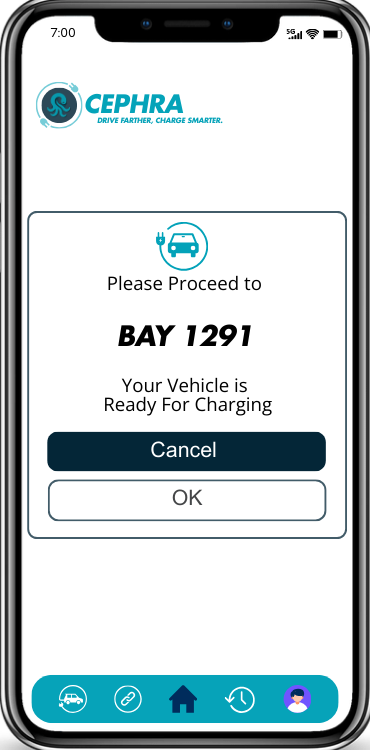
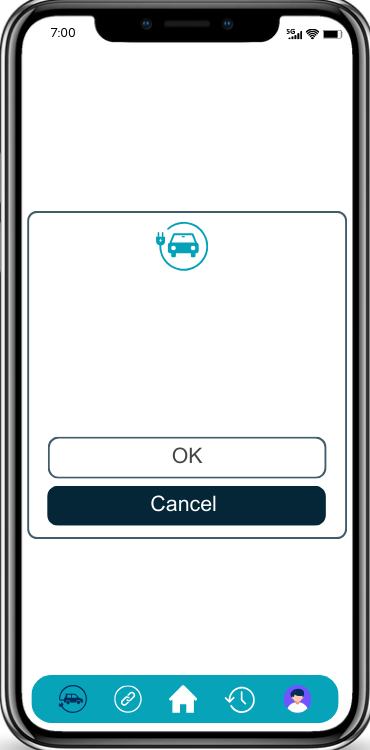
Refactor code structure for improved readability and maintainability

diff --git a/src/main/java/cephra/Phone/QueueTicket.java b/src/main/java/cephra/Phone/QueueTicket.java
@@ -16,6 +16,8 @@ public class QueueTicket extends javax.swing.JPanel {
         setSize(350, 750);
         setupLabelPosition(); // Set label position
         makeDraggable();
+
+       // jLabel1.setText("<html>You are next after<br>current charging session</html>");
     }
 
  
@@ -29,6 +31,11 @@ public class QueueTicket extends javax.swing.JPanel {
         historybutton = new javax.swing.JButton();
         homebutton2 = new javax.swing.JButton();
         profilebutton = new javax.swing.JButton();
+        percent = new javax.swing.JLabel();
+        fc = new javax.swing.JLabel();
+        fastCharge = new javax.swing.JLabel();
+        mins1 = new javax.swing.JLabel();
+        label1 = new javax.swing.JLabel();
         jLabel1 = new javax.swing.JLabel();
 
         setLayout(null);
@@ -115,7 +122,37 @@ public class QueueTicket extends javax.swing.JPanel {
         add(profilebutton);
         profilebutton.setBounds(260, 670, 50, 50);
 
-        jLabel1.setIcon(new javax.swing.ImageIcon(getClass().getResource("/cephra/Photos/FC - PANEL 1.png"))); // NOI18N
+        percent.setFont(new java.awt.Font("Segoe UI", 1, 18)); // NOI18N
+        percent.setHorizontalAlignment(javax.swing.SwingConstants.CENTER);
+        percent.setText("18% (LOW)");
+        add(percent);
+        percent.setBounds(120, 280, 100, 40);
+
+        fc.setFont(new java.awt.Font("Segoe UI", 3, 36)); // NOI18N
+        fc.setHorizontalAlignment(javax.swing.SwingConstants.CENTER);
+        fc.setText("FCPOO5");
+        add(fc);
+        fc.setBounds(70, 190, 200, 40);
+
+        fastCharge.setFont(new java.awt.Font("Segoe UI", 0, 18)); // NOI18N
+        fastCharge.setHorizontalAlignment(javax.swing.SwingConstants.CENTER);
+        fastCharge.setText("Fast Charging");
+        add(fastCharge);
+        fastCharge.setBounds(70, 230, 200, 30);
+
+        mins1.setFont(new java.awt.Font("Segoe UI", 1, 24)); // NOI18N
+        mins1.setHorizontalAlignment(javax.swing.SwingConstants.CENTER);
+        mins1.setText("5 minutes");
+        add(mins1);
+        mins1.setBounds(105, 390, 130, 40);
+
+        label1.setFont(new java.awt.Font("Segoe UI", 0, 14)); // NOI18N
+        label1.setHorizontalAlignment(javax.swing.SwingConstants.CENTER);
+        label1.setText("<html><div style='text-align:center;'>You are next after<br>current charging session</div></html>\n");
+        add(label1);
+        label1.setBounds(95, 340, 150, 40);
+
+        jLabel1.setIcon(new javax.swing.ImageIcon(getClass().getResource("/cephra/Photos/ServiceFast.png"))); // NOI18N
         add(jLabel1);
         jLabel1.setBounds(-15, 0, 398, 750);
     }// </editor-fold>//GEN-END:initComponents
@@ -262,10 +299,15 @@ public class QueueTicket extends javax.swing.JPanel {
     private javax.swing.JButton cancelticket;
     private javax.swing.JButton charge;
     private javax.swing.JButton checkstatus;
+    private javax.swing.JLabel fastCharge;
+    private javax.swing.JLabel fc;
     private javax.swing.JButton historybutton;
     private javax.swing.JButton homebutton2;
     private javax.swing.JLabel jLabel1;
+    private javax.swing.JLabel label1;
     private javax.swing.JButton linkbutton;
+    private javax.swing.JLabel mins1;
+    private javax.swing.JLabel percent;
     private javax.swing.JButton profilebutton;
     // End of variables declaration//GEN-END:variables
 }

diff --git a/src/main/java/cephra/Phone/QueueStatus.java b/src/main/java/cephra/Phone/QueueStatus.java
@@ -28,6 +28,9 @@ public class QueueStatus extends javax.swing.JPanel {
         historybutton = new javax.swing.JButton();
         profilebutton = new javax.swing.JButton();
         homebutton2 = new javax.swing.JButton();
+        jLabel2 = new javax.swing.JLabel();
+        jLabel3 = new javax.swing.JLabel();
+        jLabel4 = new javax.swing.JLabel();
         jLabel1 = new javax.swing.JLabel();
 
         setLayout(null);
@@ -113,6 +116,22 @@ public class QueueStatus extends javax.swing.JPanel {
         });
         add(homebutton2);
         homebutton2.setBounds(150, 680, 40, 40);
+
+        jLabel2.setFont(new java.awt.Font("Segoe UI", 0, 18)); // NOI18N
+        jLabel2.setText("Please Proceed to");
+        add(jLabel2);
+        jLabel2.setBounds(100, 270, 150, 30);
+
+        jLabel3.setFont(new java.awt.Font("Segoe UI", 3, 36)); // NOI18N
+        jLabel3.setText("BAY 1291");
+        add(jLabel3);
+        jLabel3.setBounds(90, 310, 180, 50);
+
+        jLabel4.setFont(new java.awt.Font("Segoe UI", 0, 15)); // NOI18N
+        jLabel4.setHorizontalAlignment(javax.swing.SwingConstants.CENTER);
+        jLabel4.setText("<html><div style='text-align:center;'>Your Vehicle is<br>Ready For Charging</div></html>");
+        add(jLabel4);
+        jLabel4.setBounds(100, 380, 150, 50);
 
         jLabel1.setIcon(new javax.swing.ImageIcon(getClass().getResource("/cephra/Photos/queuestats.png"))); // NOI18N
         add(jLabel1);
@@ -253,6 +272,9 @@ public class QueueStatus extends javax.swing.JPanel {
     private javax.swing.JButton historybutton;
     private javax.swing.JButton homebutton2;
     private javax.swing.JLabel jLabel1;
+    private javax.swing.JLabel jLabel2;
+    private javax.swing.JLabel jLabel3;
+    private javax.swing.JLabel jLabel4;
     private javax.swing.JButton linkbutton;
     private javax.swing.JButton okaycondition;
     private javax.swing.JButton profilebutton;
